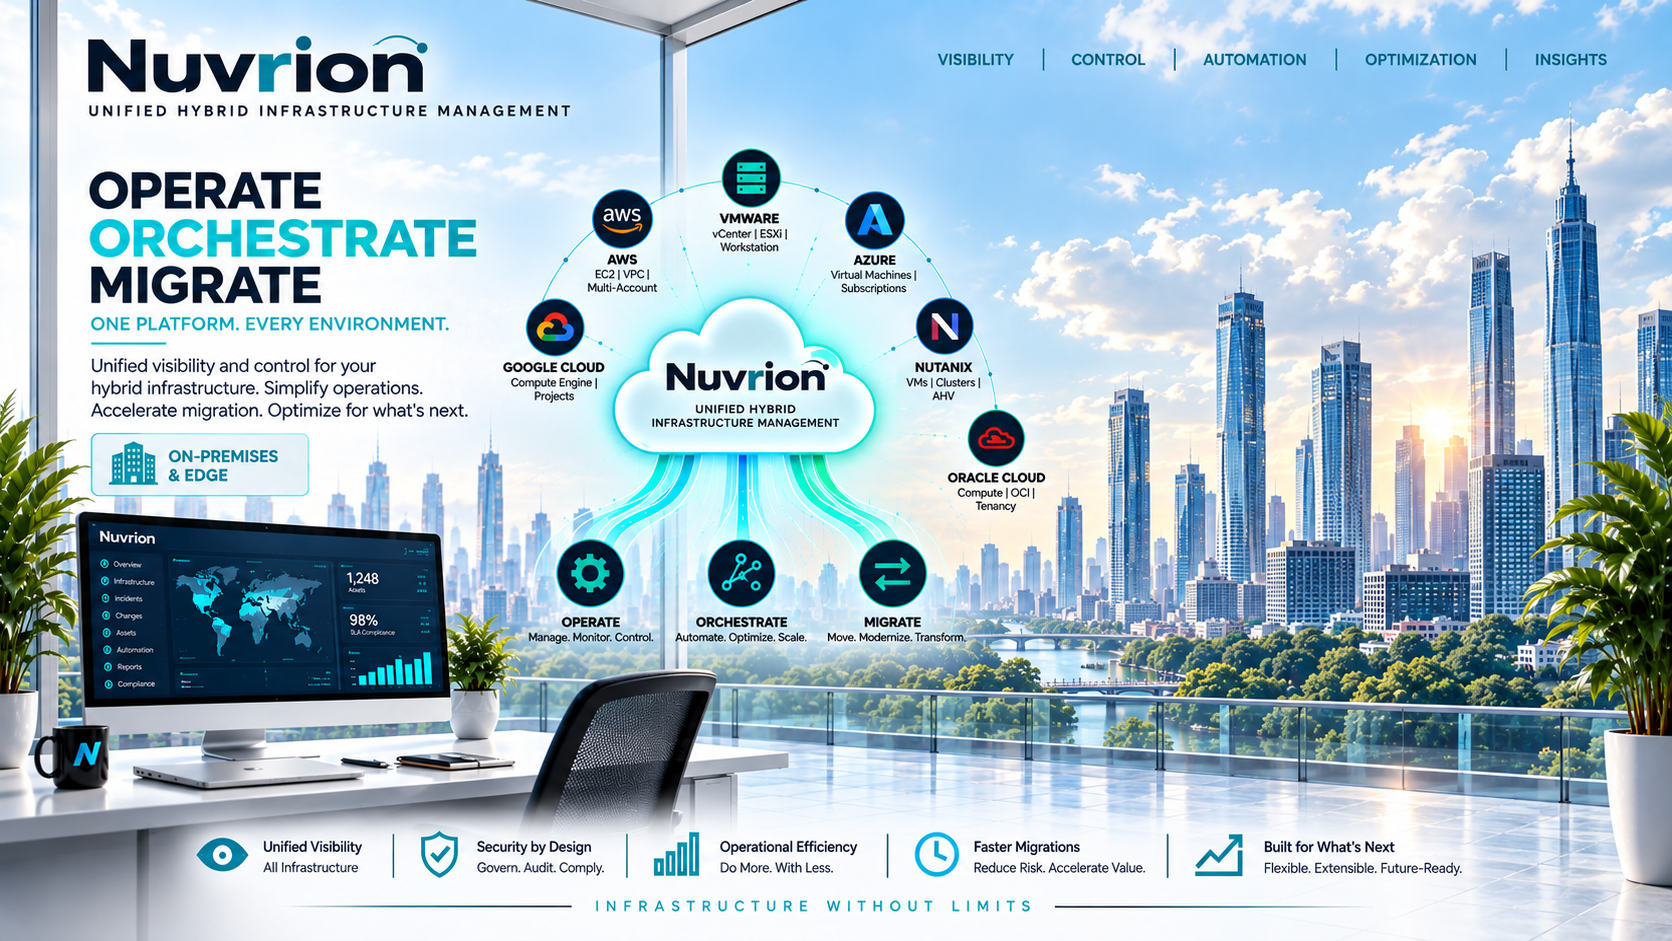
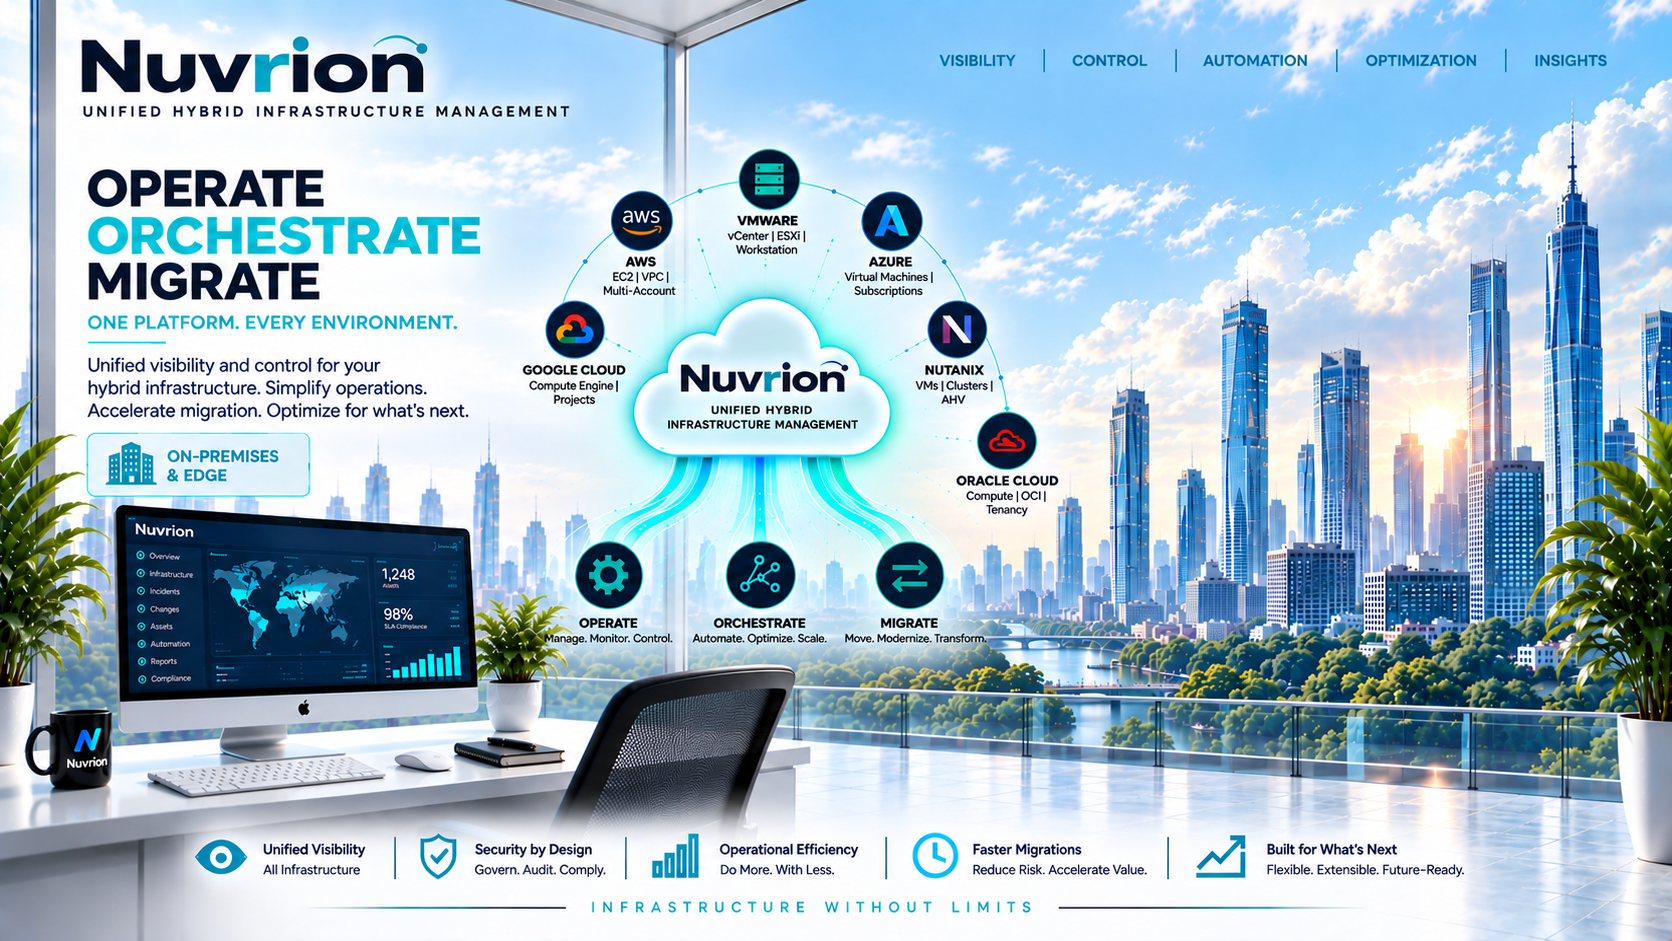
Nuvrion v0.1.114
- Replaces the login-page background with a revised version of the Nuvrion infrastructure artwork (product owner tweaked the previously shipped v0.1.113 image).
- Preserves the functional login card, authentication behavior, positioning, responsive layout, and post-login background isolation exactly as in v0.1.113 — only the background image bytes and its cache-bust query string changed.
- Requires no Workstation Agent upgrade or database migration; Agent v0.1.46 and migration 0028 remain current.
- Built by Claude directly against the deployed v0.1.113 server overlay. No automated test suite was available in this checkout to run; verified manually via local static rendering instead. See release-manifest.json's validation block for exact scope.

**Amendment (same day):** the first v0.1.114 build shipped the wrong supplied image (a mid-edit version, not the final one). This was corrected and redeployed under the same v0.1.114 version number at the product owner's request, rather than cutting a new v0.1.115. The cache-bust query string was intentionally left unchanged, so any browser that cached the first (incorrect) v0.1.114 image in the last 24h needs a cache clear to see the corrected one immediately; it will refresh on its own once that cache entry expires.
[…]

diff --git a/apps/web/styles.css b/apps/web/styles.css
@@ -786,7 +786,7 @@ nav button:hover .nav-icon svg,nav button.active .nav-icon svg{stroke:#e9fffb;fi
   min-height:100vh;
   padding:clamp(20px,2.8vw,46px) clamp(22px,2vw,36px)!important;
   overflow:auto;
-  background:url("/assets/nuvrion-login-background.png?v=20260916-113") center top/99% auto no-repeat #010f18!important;
+  background:url("/assets/nuvrion-login-background.png?v=20260916-114") center top/99% auto no-repeat #010f18!important;
 }
 .login-view.login-reference.login-image-background::before,
 .login-view.login-reference.login-image-background::after{display:none!important}
